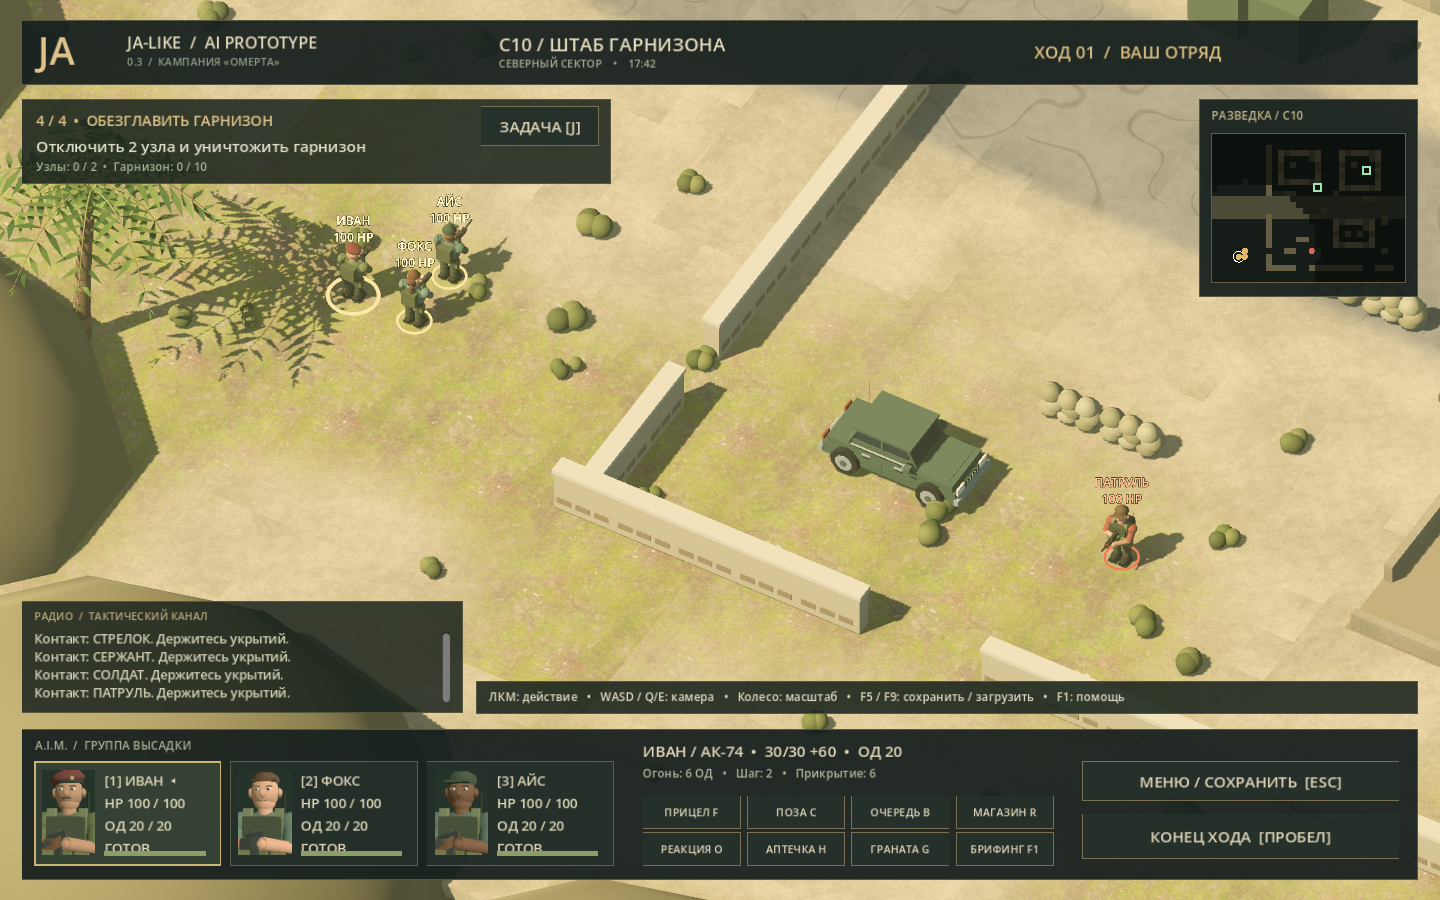
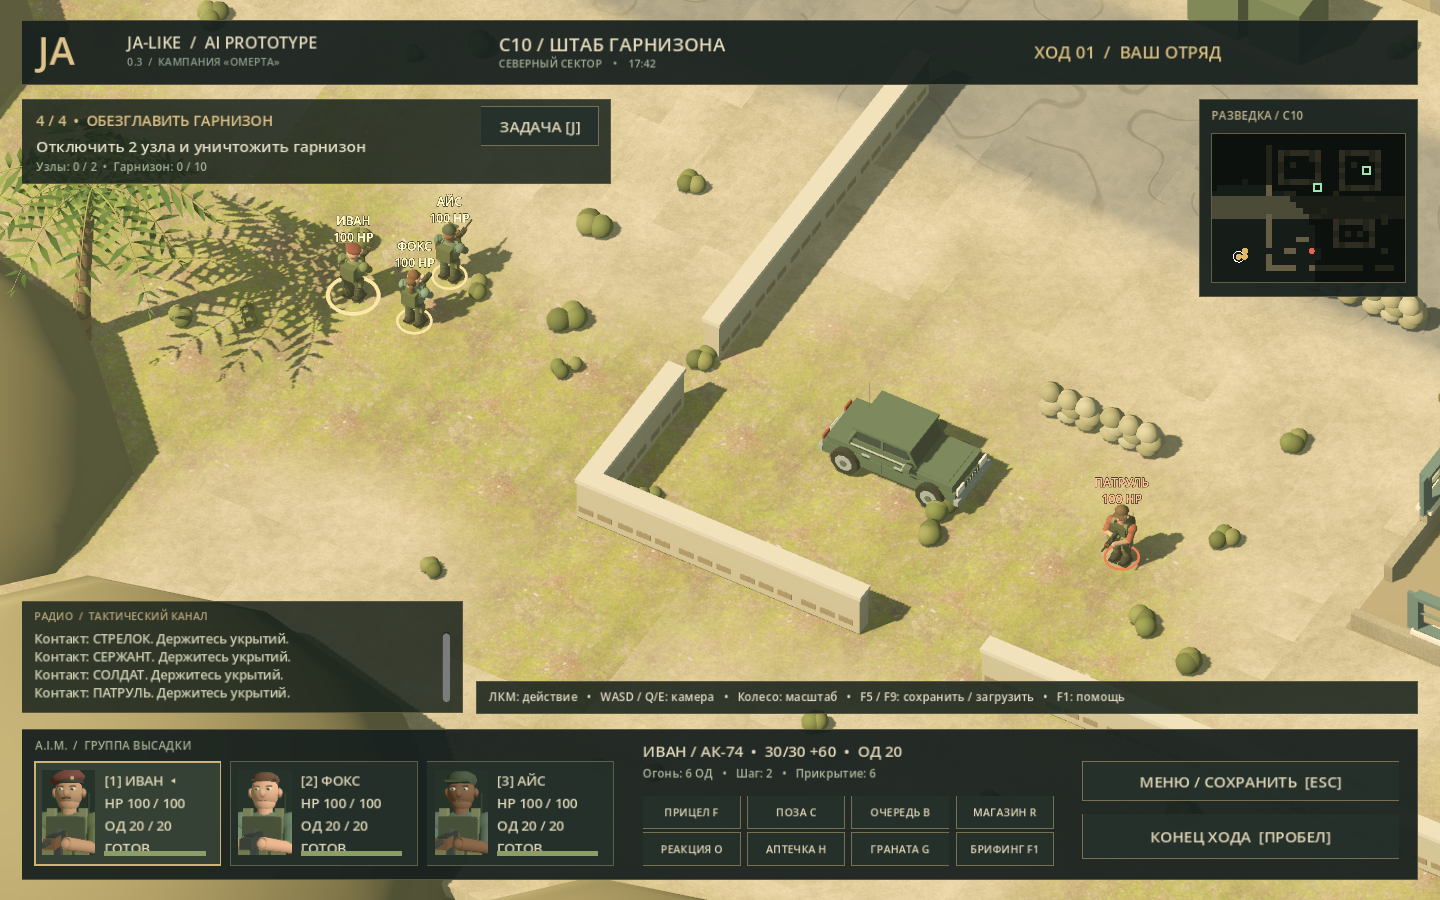
Clean fence corner and preserve visible windows in roof cutaways

diff --git a/scripts/verify-release.py b/scripts/verify-release.py
@@ -8,7 +8,7 @@ import subprocess
 import sys
 
 root = Path(__file__).resolve().parent.parent
-archive = Path(sys.argv[1]) if len(sys.argv) > 1 else root / "build/JA-like-AI-Prototype-0.3.1-Windows-x64.zip"
+archive = Path(sys.argv[1]) if len(sys.argv) > 1 else root / "build/JA-like-AI-Prototype-0.3.2-Windows-x64.zip"
 destination = root / ".runtime" / ("release-verify-" + datetime.now().strftime("%Y%m%d-%H%M%S"))
 destination.mkdir(parents=True)
 with ZipFile(archive) as bundle:

diff --git a/scripts/package-release.py b/scripts/package-release.py
@@ -4,7 +4,7 @@ from zipfile import ZipFile, ZIP_DEFLATED
 import hashlib
 
 root = Path(__file__).resolve().parent.parent
-version = "0.3.1"
+version = "0.3.2"
 folder = f"JA-like-AI-Prototype-{version}-Windows-x64"
 archive = root / "build" / f"{folder}.zip"
 files = [root / name for name in ("README.md", "START.cmd", "START-OPENGL.cmd", "DEMO.cmd", "launch.ps1")]

diff --git a/README.md b/README.md
@@ -6,7 +6,7 @@
 
 **Опубликован [релиз v0.3.0](https://github.com/Kpoji4er/ja-like-ai-prototype/releases/tag/v0.3.0):** четыре разные карты с разными задачами. Windows ZIP — 97,9 MiB, SHA-256 приложен. Публичное скачивание без авторизации и совпадение контрольной суммы проверены.
 
-**Исправление v0.3.1:** боковые секции заборов повёрнуты вдоль периметра, угол штаба соединён. Проходы и сохранения совместимы с v0.3.0.
+**[Исправление v0.3.2](https://github.com/Kpoji4er/ja-like-ai-prototype/releases/tag/v0.3.2):** аккуратный Г-образный угол забора без выступа; при скрытых крышах остаются видны оконные рамы и подоконники. Сохранения v0.3 совместимы.
 
 ![Реальный кадр игры](docs/preview.png)
 
@@ -149,6 +149,7 @@
 | 15.10 02:51:25 | 15.10 02:54:34 | 3 мин 08 с | Проверка и публикация кампании v0.3.0. Проверки основной игры, четырёх карт, целей, переходов, миграции сохранений, UI и чистой распаковки прошли. Подготовлены реальные кадры всех секторов, README и QA. Windows ZIP — около 98 MiB; осталось отправить исходники и релиз. |
 | 15.10 02:55:03 | 15.10 02:55:54 | 0 мин 51 с | Публикация и проверка публичного релиза v0.3.0. Релиз v0.3.0 опубликован: Windows ZIP 97,9 MiB и SHA-256. Оба файла скачаны без авторизации (HTTP 200), контрольные суммы совпали. Исходники и журнал времени доступны публично. |
 | 15.10 03:04:12 | 15.10 03:05:19 | 1 мин 06 с | Исправление поворота заборов и угла периметра. Поворот боковых секций и стык угла исправлены; проверены реальные кадры и тесты кампании. Подготовлено исправление v0.3.1 с совместимыми сохранениями. |
+| 15.10 03:08:59 | 15.10 03:09:50 | 0 мин 51 с | Чистый угол забора и читаемые окна при срезе крыш. Убран выступ на углу забора. При срезе крыш сохранены контрастные оконные рамы и подоконники. Проверены реальные кадры и основные тесты, включая линию огня; подготовлена v0.3.2. |
 <!-- WORKLOG_ROWS_END -->
 
 **Текущий этап:** нет активного таймера; завершённые этапы приведены выше.

diff --git a/docs/CHANGELOG.md b/docs/CHANGELOG.md
@@ -1,5 +1,9 @@
 # Изменения
 
+## v0.3.2 — 15.10.2026
+
+Убран выступ на углу забора: две секции соединяются в аккуратный Г-образный стык. Подоконники и контрастные оконные рамы остаются видимыми при ручном и автоматическом срезе крыш. Проверены реальные кадры и основные тесты, включая линию огня через окна.
+
 ## v0.3.1 — 15.10.2026
 
 Исправлено направление боковых секций забора штаба и стены в Омерте. Добавлен стык в углу периметра. Проходы и данные карты не изменены; сохранения v0.3 совместимы. Проверены реальные кадры и тесты кампании.
